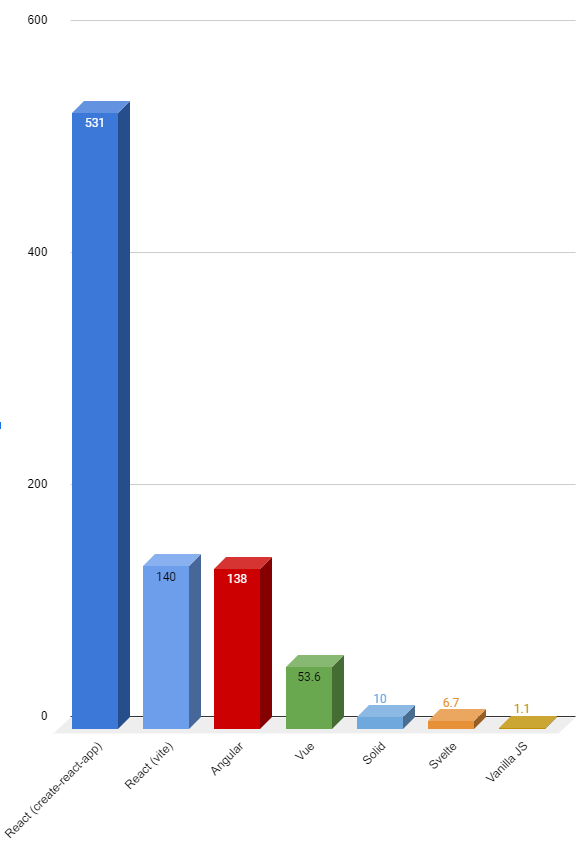
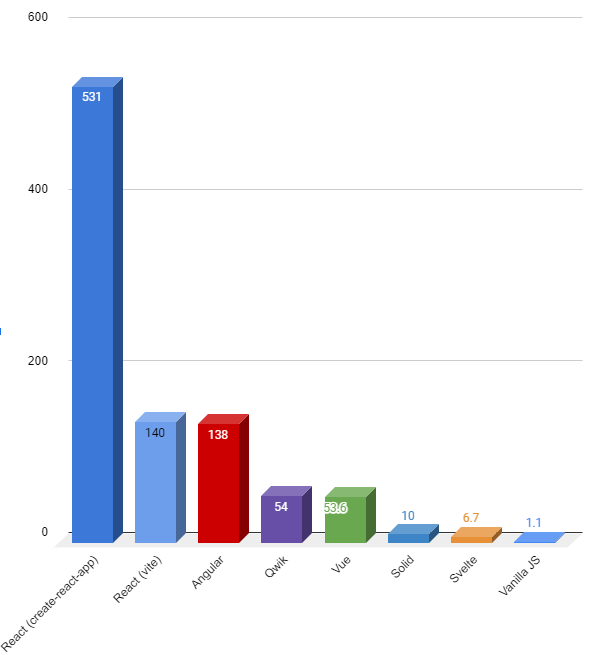
Qwik, finished version

diff --git a/qwik/src/routes/index.tsx b/qwik/src/routes/index.tsx
@@ -1,9 +1,10 @@
-import { component$, useSignal, useTask$, $ } from '@builder.io/qwik';
+import { component$, useSignal, useBrowserVisibleTask$, $, useStore } from '@builder.io/qwik';
 import type { DocumentHead } from '@builder.io/qwik-city';
 import './App.css';
 import MessageComponent from './components/MessageComponent';
 
 const title: string = 'Qwik app';
+const LS: string = 'jsFrameworkComparison-qwik-messages';
 
 export type Message = {
   message: string;
@@ -12,22 +13,21 @@ export type Message = {
 
 export default component$(() => {
   const count = useSignal<number>(0);
-  const list = useSignal<Message[]>([]);
+  const list = useStore<{ value: Message[] }>({ value: [] });
 
-  const sendMessage = $((event: any)=>{
-    list.value.push({
-        message: event.target.value,
-        date: new Date()
-    });
+  const sendMessage = $((event: any) => {
+    list.value = [...list.value, {message: event.target.value, date: new Date()}];
+    window.localStorage.setItem(LS, JSON.stringify(list.value));
   });
-    
+
   const emptyList = $(() => {
     list.value = [];
+    window.localStorage.setItem(LS, '[]');
   });
 
-  useTask$(async () => {
-    setInterval(() => { count.value ++; }, 1000);
-    list.value = [];
+  useBrowserVisibleTask$(() => {
+    setInterval(() => { count.value++; }, 1000);
+    list.value = JSON.parse(window.localStorage.getItem(LS) ?? '[]') as Message[];
   });
 
   return (
@@ -38,8 +38,9 @@ export default component$(() => {
         <span>{count.value}</span>
       </header>
       <div class="content">
-        <input type="text" onInput$={(event) => sendMessage(event)} />
-        {list.value.map((elem, i) => <MessageComponent key={i} message={elem} />)}
+        <input type="text" onChange$={(event) => sendMessage(event)} />
+        <span>{list.value.length}</span>
+        {list.value.map((elem, i) => (<MessageComponent key={i} message={elem} />))}
         <button onClick$={() => emptyList()}>Empty</button>
       </div>
     </div>

diff --git a/qwik/adapters/static/vite.config.ts b/qwik/adapters/static/vite.config.ts
@@ -1,0 +1,19 @@
+import { staticAdapter } from '@builder.io/qwik-city/adapters/static/vite';
+import { extendConfig } from '@builder.io/qwik-city/vite';
+import baseConfig from '../../vite.config';
+
+export default extendConfig(baseConfig, () => {
+  return {
+    build: {
+      ssr: true,
+      rollupOptions: {
+        input: ['@qwik-city-plan'],
+      },
+    },
+    plugins: [
+      staticAdapter({
+        origin: 'https://yoursite.qwik.dev',
+      }),
+    ],
+  };
+});

diff --git a/qwik/src/routes/components/MessageComponent.tsx b/qwik/src/routes/components/MessageComponent.tsx
@@ -1,7 +1,8 @@
 import { component$ } from '@builder.io/qwik';
 import './MessageComponent.css';
+import type { Message } from '..';
 
-export default component$((props: any) => {
+export default component$((props: {message: Message}) => {
     return <div class="elem">
         <span class="message">{props.message.message}</span>
         <span class="date">{props.message.date.toString()}</span>

diff --git a/qwik/src/root.tsx b/qwik/src/root.tsx
@@ -15,7 +15,6 @@ export default component$(() => {
     <QwikCityProvider>
       <head>
         <meta charSet="utf-8" />
-        <link rel="manifest" href="/manifest.j-son" />
       </head>
       <body lang="en">
         <RouterOutlet />

diff --git a/README.md b/README.md
@@ -16,17 +16,19 @@ For each framework is developed a small application that handles a counter and a
 
 ## Results
 
-|                         | React `create-react-app` | React `vite` | Angular | Svelte | Vue    | Solid  | Vanilla JS |
-| ----------------------- | ------------------------ | ------------ | ------- | ------ | ------ | ------ | ---------- |
-| Size of built JS (KB)   | 531                      | 140          | 138     | 6.73   | 53.6   | 9.96   | 1.11       |
-| Size of dev folder (KB) | 292511                   | 102757       | 481411  | 103418 | 107088 | 96100  | 3.50       |
-| Version                 | 18.2.0                   | 18.2.0       | 14.2.3  | 3.55.1 | 3.2.45 | 1.6.10 | -          |
+|                         | React `create-react-app` | React `vite` | Angular | Svelte | Vue    | Solid  | Qwik   | Vanilla JS |
+| ----------------------- | ------------------------ | ------------ | ------- | ------ | ------ | ------ | ------ | ---------- |
+| Size of built JS (KB)   | 531                      | 140          | 138     | 6.73   | 53.6   | 9.96   | 54.0   | 1.11       |
+| Size of dev folder (KB) | 292511                   | 102757       | 481411  | 103418 | 107088 | 96100  | 168932 | 3.50       |
+| Version                 | 18.2.0                   | 18.2.0       | 14.2.3  | 3.55.1 | 3.2.45 | 1.6.10 | 0.20.1 | -          |
 
 ## Size of built framework in KB
 
 Lower is better.
 
 ![Comparison Chart](/chartBuilt.png)
+
+> **Qwik** is a little bit different because all js is not interpreted after the page is rendered, though the minimum bundle size remains large (42.5 KB).
 
 ## Size of development folder in MB
 
@@ -152,6 +154,24 @@ In any case, vanilla JS is to be avoided for any kind of projects.
 > `npm run dev`
 
 > `npm run build`
+
+### Qwik
+
+- Size of development folder: 97.9 MB
+- Contains:
+  - Files: 6187
+  - Folders: 969
+- Size of built app: 75.1 KB
+- Size of minified JS files: 54 KB
+
+> `npm i`
+
+> `npm start`
+
+> `npm run build`
+
+*I used SSG (Static Site Generation) for this Qwik project*
+*`npm run qwik add`*
 
 ### Vanilla JS
 
@@ -354,6 +374,48 @@ export type Message = {
 }
 
 export default App;
+```
+
+### Qwik
+
+```tsx
+import { component$, useSignal, useBrowserVisibleTask$, $, useStore } from '@builder.io/qwik';
+import MessageComponent from './components/MessageComponent';
+
+const title: string = 'Qwik app';
+const LS: string = 'jsFrameworkComparison-qwik-messages';
+
+export default component$(() => {
+  const list = useStore<{ value: Message[] }>({ value: [] });
+
+  const sendMessage = $((event: any) => {
+    list.value = [...list.value, {message: event.target.value, date: new Date()}];
+    window.localStorage.setItem(LS, JSON.stringify(list.value));
+  });
+
+  const emptyList = $(() => {
+    list.value = [];
+    window.localStorage.setItem(LS, '[]');
+  });
+
+  useBrowserVisibleTask$(() => {
+    list.value = JSON.parse(window.localStorage.getItem(LS) ?? '[]') as Message[];
+  });
+
+  return (
+    <div class="content">
+      <input type="text" onChange$={(event) => sendMessage(event)} />
+      <span>{list.value.length}</span>
+      {list.value.map((elem, i) => (<MessageComponent key={i} message={elem} />))}
+      <button onClick$={() => emptyList()}>Empty</button>
+    </div>
+  );
+});
+
+export type Message = {
+  message: string;
+  date: Date;
+}
 ```
 
 ### Vanilla JS

diff --git a/qwik/README.md b/qwik/README.md
@@ -63,3 +63,9 @@ The production build will generate client and server modules by running both cli
 ```shell
 npm run build # or `yarn build`
 ```
+
+## Static Site Generator (Node.js)
+
+```
+npm run build.server
+```
